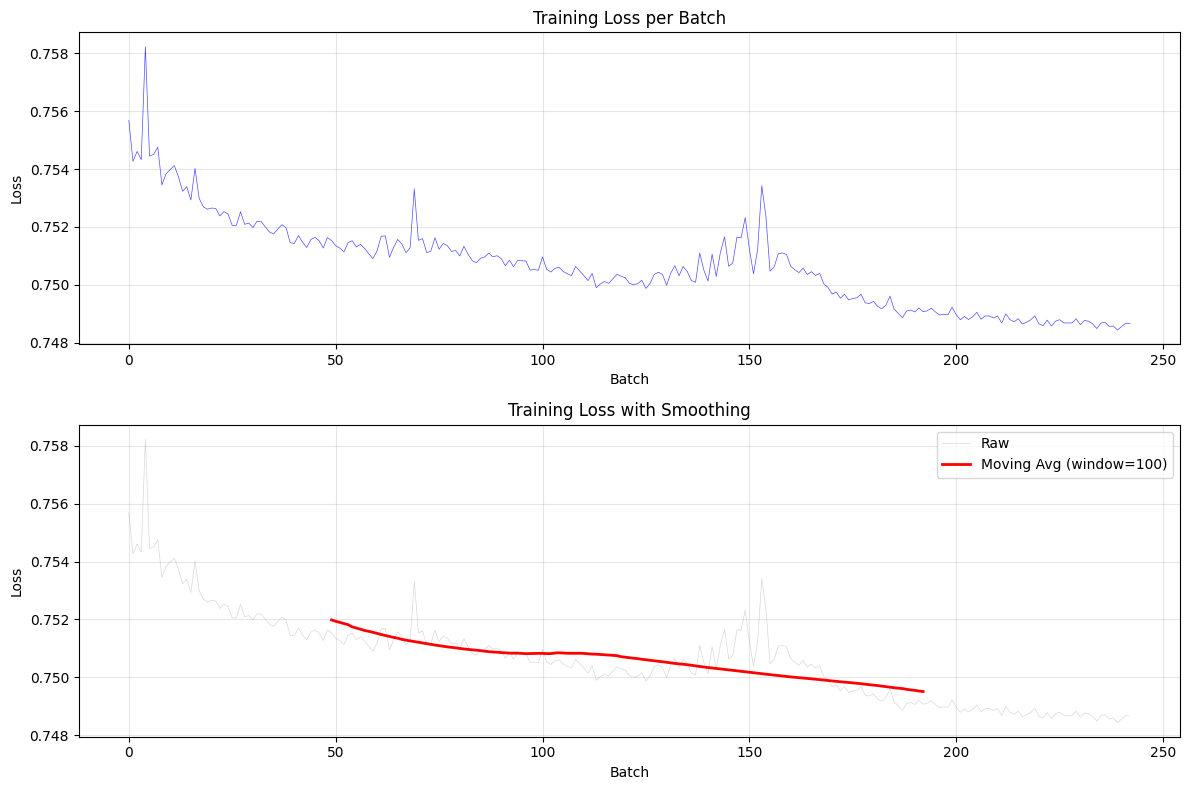
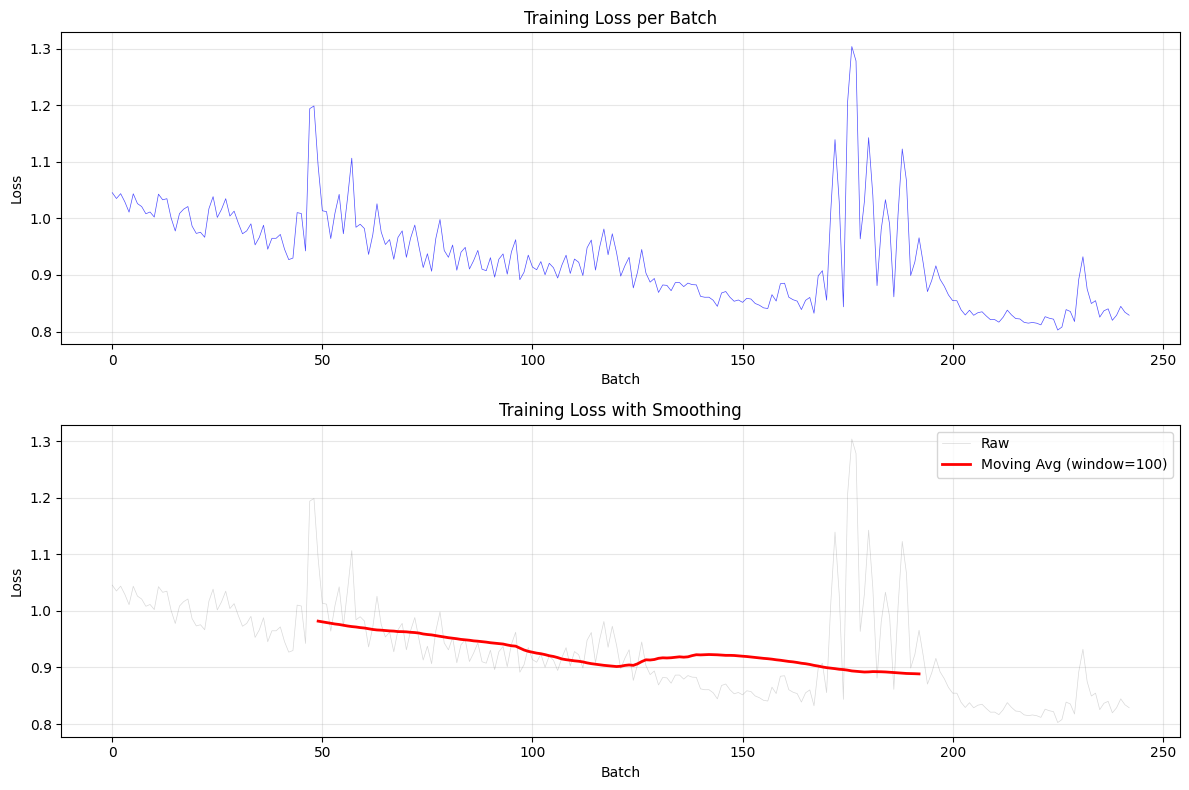
aaaaa

diff --git a/examples/language_modelling/pre-train/train_pytorch_big_new.py b/examples/language_modelling/pre-train/train_pytorch_big_new.py
@@ -165,9 +165,9 @@ def train_language_model():
     os.makedirs(result_dir, exist_ok=True)
     print(f"Result directory: {result_dir}")
     # Model Parameters
-    seq_len = 256
+    seq_len = 512
     d_model = 512
-    num_layers = 4
+    num_layers = 32
     num_heads = 8
     dropout = 0.1
     num_harmonics = 64
